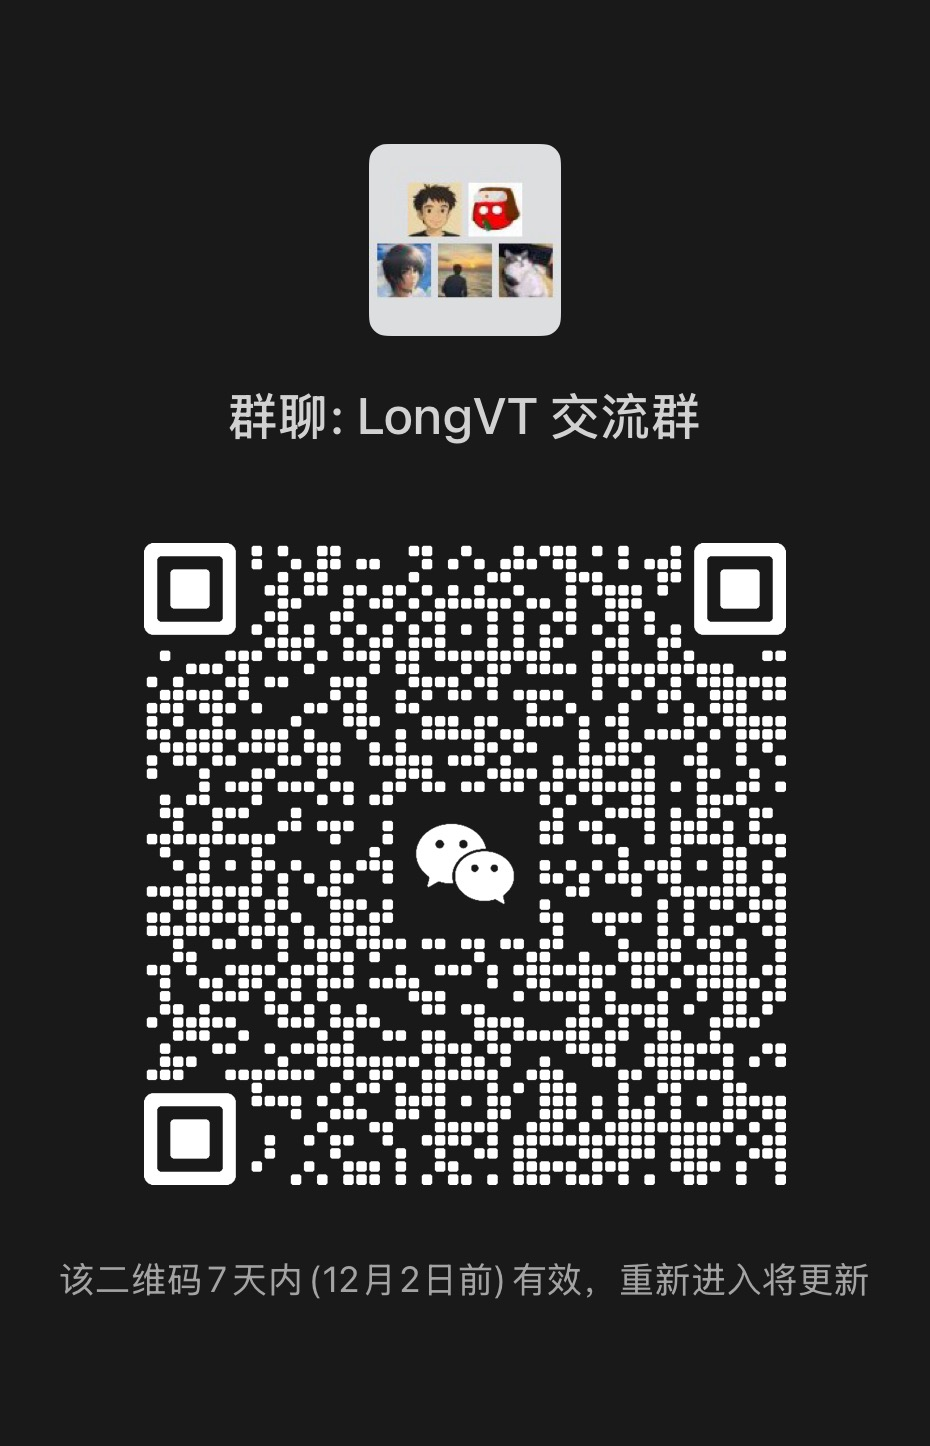
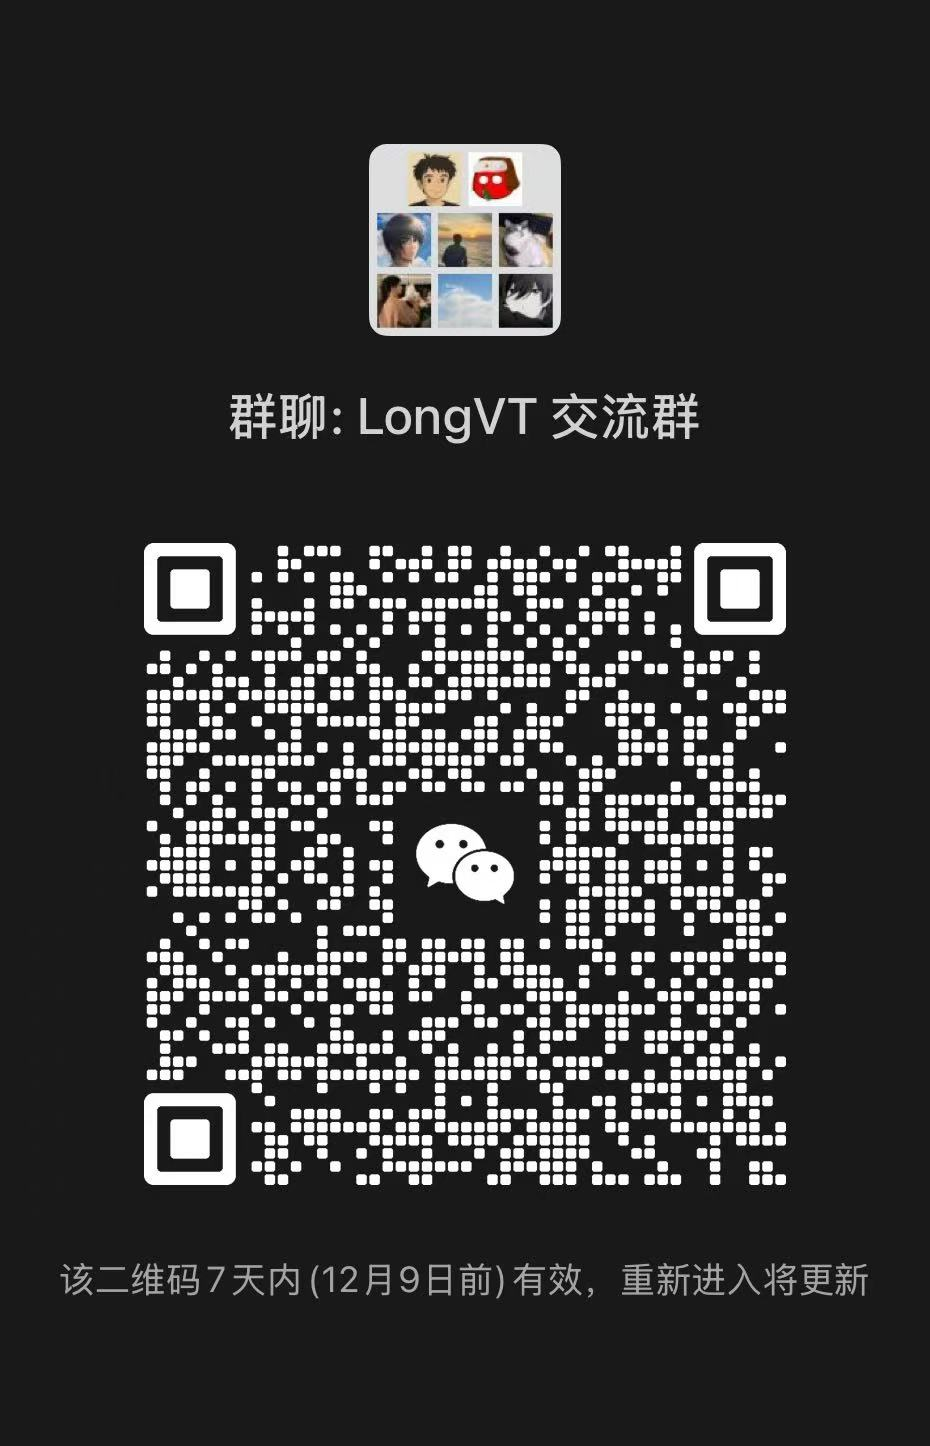
docs: update cartoon description and qr code

diff --git a/README.md b/README.md
@@ -20,9 +20,9 @@
 </div>
 
 ## 🎉 News
-- **[2025-11]**: We have created a fun cartoon ([Conan_EN](https://drive.google.com/file/d/1sk9YfmtcQq0nLlI5K_G3BOziRSEjMMT0/view?usp=sharing) | [Conan_CN](https://drive.google.com/file/d/14MJEN_FBRJNJ9IYWK-fs4IbZZSgvKGAw/view?usp=sharing)) to explain LongVT. Enjoy :) Credit to the amazing [NotebookLM](https://notebooklm.google.com/) and [Gemini-3](https://blog.google/products/gemini/gemini-3/#learn-anything).
-- **[2025-11]**: Join our WeChat group by scanning this [QR code](assets/qr_code.jpg).
-- **[2025-11]**: We release all of our codes, data, and model checkpoints! Check out the [LongVT collection on Hugging Face](https://huggingface.co/collections/lmms-lab/longvt).
+- **[2025-12-02]**: We have created fun cartoons ([Conan_EN](https://drive.google.com/file/d/1sk9YfmtcQq0nLlI5K_G3BOziRSEjMMT0/view?usp=sharing) | [Conan_CN](https://drive.google.com/file/d/14MJEN_FBRJNJ9IYWK-fs4IbZZSgvKGAw/view?usp=sharing)) to explain LongVT. Enjoy :) Credit to the amazing [NotebookLM](https://notebooklm.google.com/) and [Gemini-3](https://blog.google/products/gemini/gemini-3/#learn-anything).
+- **[2025-12-02]**: Join our WeChat group by scanning this [QR code](assets/qr_code.jpg).
+- **[2025-11-28]**: We release all of our codes, data, and model checkpoints! Check out the [LongVT collection on Hugging Face](https://huggingface.co/collections/lmms-lab/longvt).
 
 ## Table of Contents
 
